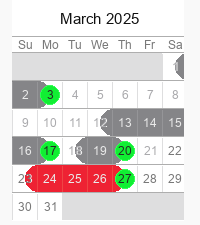
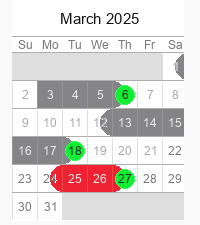
adds example events file

Changed region(s): [[0.06, 0.3422, 0.69, 0.4978], [0.12, 0.5911, 0.69, 0.8711]]

diff --git a/lib/drawcal/test.py b/lib/drawcal/test.py
@@ -36,5 +36,34 @@ contains drawcal unit tests.
 import unittest
 
 
+# TODO: move these test events to separate json files in a tests folder
+def test_events():
+    """Returns a list of test events."""
+
+    # events = []
+    # events = [['2/1/2022', '2/2/2022'], ['2/10/2022', '2/11/2022'], ['2/16/2022', '2/17/2022', '2/18/2022', '2/19/2022', '2/20/2022', '2/21/2022'], ['2/23/2022', '2/24/2022']]
+    # events = [['1/28/2022', '1/29/2022', '1/30/2022', '1/31/2022'], ['2/1/2022', '2/2/2022', '2/3/2022', '2/4/2022', '2/5/2022'], ['2/7/2022', '2/8/2022', '2/9/2022', '2/10/2022'], ['2/13/2022', '2/14/2022', '2/15/2022', '2/16/2022'], ['2/24/2022', '2/25/2022'], ['2/28/2022', '3/1/2022']]
+    # events = [['2/1/2022', '2/2/2022', '2/3/2022', '2/4/2022'], ['2/8/2022', '2/9/2022'], ['2/10/2022', '2/11/2022'], ['2/14/2022', '2/15/2022', '2/16/2022', '2/17/2022', '2/18/2022'], ['2/24/2022', '2/25/2022', '2/26/2022']]
+    # events = [['2/22/2022','2/23/2022','2/24/2022'], ['2/25/2022','2/26/2022','2/27/2022']]
+    # events = [['2/1/2022', '2/2/2022', '2/3/2022', '2/4/2022', '2/5/2022'], ['2/13/2022', '2/14/2022', '2/15/2022', '2/16/2022'], ['2/19/2022', '2/20/2022', '2/21/2022', '2/22/2022', '2/23/2022', '2/24/2022']]
+    # events = [['3/22/2022', '3/23/2022', '3/24/2022'], ['3/25/2022', '3/26/2022', '3/27/2022']]
+    # events = [['1/1/2022', '1/2/2022', '1/3/2022'], ['1/12/2022', '1/13/2022', '1/14/2022', '1/15/2022'], ['1/24/2022', '1/25/2022']]
+    # events = [['2/1/2022', '2/2/2022', '2/3/2022', '2/4/2022', '2/5/2022'], ['2/12/2022', '2/13/2022', '2/14/2022', '2/15/2022', '2/16/2022', '2/17/2022'], ['2/24/2022', '2/25/2022', '2/26/2022']]
+
+    # contains a fake date: 2/29/2022
+    # events = [['2/1/2022', '2/2/2022'], ['2/27/2022', '2/28/2022', '2/29/2022']]
+
+    # contains conflicting events
+    # events = [['3/1/2022', '3/2/2022', '3/3/2022'], ['3/2/2022', '3/3/2022', '3/4/2022']]
+
+    # issue no. 1
+    # events = [['5/29/2022', '5/30/2022', '5/31/2022'], ['6/3/2022', '6/4/2022']]
+
+    # gaps in events
+    events = [["6/3/2022", "6/4/2022", "6/5/2022", "6/6/2022", "6/7/2022"]]
+
+    return events
+
+
 if __name__ == "__main__":
     unittest.main()

diff --git a/lib/drawcal/events.py b/lib/drawcal/events.py
@@ -84,32 +84,3 @@ def read_events(filepath):
         print(e)
 
     return events
-
-
-# TODO: move these test events to separate json files in a tests folder
-def test_events():
-    """Returns a list of test events."""
-
-    # events = []
-    # events = [['2/1/2022', '2/2/2022'], ['2/10/2022', '2/11/2022'], ['2/16/2022', '2/17/2022', '2/18/2022', '2/19/2022', '2/20/2022', '2/21/2022'], ['2/23/2022', '2/24/2022']]
-    # events = [['1/28/2022', '1/29/2022', '1/30/2022', '1/31/2022'], ['2/1/2022', '2/2/2022', '2/3/2022', '2/4/2022', '2/5/2022'], ['2/7/2022', '2/8/2022', '2/9/2022', '2/10/2022'], ['2/13/2022', '2/14/2022', '2/15/2022', '2/16/2022'], ['2/24/2022', '2/25/2022'], ['2/28/2022', '3/1/2022']]
-    # events = [['2/1/2022', '2/2/2022', '2/3/2022', '2/4/2022'], ['2/8/2022', '2/9/2022'], ['2/10/2022', '2/11/2022'], ['2/14/2022', '2/15/2022', '2/16/2022', '2/17/2022', '2/18/2022'], ['2/24/2022', '2/25/2022', '2/26/2022']]
-    # events = [['2/22/2022','2/23/2022','2/24/2022'], ['2/25/2022','2/26/2022','2/27/2022']]
-    # events = [['2/1/2022', '2/2/2022', '2/3/2022', '2/4/2022', '2/5/2022'], ['2/13/2022', '2/14/2022', '2/15/2022', '2/16/2022'], ['2/19/2022', '2/20/2022', '2/21/2022', '2/22/2022', '2/23/2022', '2/24/2022']]
-    # events = [['3/22/2022', '3/23/2022', '3/24/2022'], ['3/25/2022', '3/26/2022', '3/27/2022']]
-    # events = [['1/1/2022', '1/2/2022', '1/3/2022'], ['1/12/2022', '1/13/2022', '1/14/2022', '1/15/2022'], ['1/24/2022', '1/25/2022']]
-    # events = [['2/1/2022', '2/2/2022', '2/3/2022', '2/4/2022', '2/5/2022'], ['2/12/2022', '2/13/2022', '2/14/2022', '2/15/2022', '2/16/2022', '2/17/2022'], ['2/24/2022', '2/25/2022', '2/26/2022']]
-
-    # contains a fake date: 2/29/2022
-    # events = [['2/1/2022', '2/2/2022'], ['2/27/2022', '2/28/2022', '2/29/2022']]
-
-    # contains conflicting events
-    # events = [['3/1/2022', '3/2/2022', '3/3/2022'], ['3/2/2022', '3/3/2022', '3/4/2022']]
-
-    # issue no. 1
-    # events = [['5/29/2022', '5/30/2022', '5/31/2022'], ['6/3/2022', '6/4/2022']]
-
-    # gaps in events
-    events = [["6/3/2022", "6/4/2022", "6/5/2022", "6/6/2022", "6/7/2022"]]
-
-    return events

diff --git a/README.md b/README.md
@@ -15,8 +15,8 @@ $ pip install -U drawcal
 
 ## Quickstart
 
-Generate a calendar image for a given month:
+Generate a calendar image for a given events file:
 
 ```bash
-$ drawcal [--month MM] [--year YYYY]
+$ drawcal --events events.json
 ```
